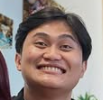
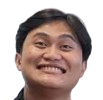
update

diff --git a/src/components/World.tsx b/src/components/World.tsx
@@ -31,6 +31,15 @@ export default function World() {
   const [openModal, setOpenModal] =
   useState<string | null>(null);
 
+  const [showEndingText, setShowEndingText] =
+  useState(false);
+
+  const endingMessage =
+    "✨ Happy Birthday Sayangku, I❤U & Sayang kamu banyak-banyak❤";
+
+  const [typedText, setTypedText] =
+    useState("");
+
   const [activeSpot, setActiveSpot] =
   useState<string | null>(null);
  
@@ -81,7 +90,12 @@ export default function World() {
         currentPos < 2100
       ) {
         setActiveSpot("letter");
-      } else {
+      } else if (
+        currentPos > 2350 &&
+        currentPos < 2600
+      ) {
+        setActiveSpot("end");
+      }else {
         setActiveSpot(null);
       }
 
@@ -107,6 +121,43 @@ export default function World() {
         handleScroll
       );
   }, []);
+
+  useEffect(() => {
+
+    if (!showEndingText)
+      return;
+
+    let index = 0;
+
+    const interval =
+      setInterval(() => {
+
+        setTypedText(
+          endingMessage.slice(
+            0,
+            index + 1
+          )
+        );
+
+        index++;
+
+        if (
+          index >=
+          endingMessage.length
+        ) {
+          clearInterval(
+            interval
+          );
+        }
+
+      }, 50);
+
+    return () =>
+      clearInterval(
+        interval
+      );
+
+  }, [showEndingText]);
 
   const launchConfetti = () => {
     confetti({
@@ -665,22 +716,124 @@ export default function World() {
               💌 Secret
             </div>
 
+            {activeSpot === "end" && (
+              <div
+                className="
+                absolute
+                bottom-[250px]
+                left-[2450px]
+                text-4xl
+                animate-bounce
+                "
+              >
+                ❤ OPEN
+              </div>
+            )}
+
             {/* ================= END ================= */}
 
             <div
               className="
               absolute
-              bottom-[170px]
-              left-[2380px]
-              text-white
-              text-xl
-              md:text-3xl
-              game-shadow
+              bottom-[70px]
+              left-[2450px]
+              cursor-pointer
+              animate-bob
               "
-            >
-              ✨ Happy Birthday Sayangku, I❤U & Sayang kamu banyak-banyak❤
-            </div>
+              onClick={() => {
 
+              if (activeSpot === "end") {
+                launchConfetti();
+                
+                setTypedText("");
+
+                setShowEndingText(false);
+
+                setTimeout(() => {
+                setShowEndingText(true);
+                }, 50);
+              }
+
+              }}
+            >
+
+              {/* TEXT */}
+
+              {showEndingText && (
+                <div
+                  className="
+                  absolute
+                  bottom-[140px]
+                  left-1/2
+                  -translate-x-1/2
+                  bg-white
+                  text-black
+                  px-4
+                  py-2
+                  rounded-xl
+                  w-[260px]
+                  text-center
+                  text-sm
+                  z-50
+                  "
+                >
+                  {typedText}
+                </div>
+              )}
+
+              {/* HEAD */}
+
+              <Image
+                src="/pixel/ariya.png"
+                alt="Ariya"
+                width={70}
+                height={70}
+                className="
+                rounded-full
+                border-4
+                border-white
+                "
+              />
+
+              {/* BODY */}
+
+              <div
+                className="
+                w-12
+                h-16
+                bg-blue-900
+                mx-auto
+                rounded-t-lg
+                "
+              />
+
+              {/* LEGS */}
+
+              <div
+                className="
+                flex
+                justify-center
+                gap-2
+                "
+              >
+                <div
+                  className="
+                  w-2
+                  h-8
+                  bg-zinc-800
+                  "
+                />
+
+                <div
+                  className="
+                  w-2
+                  h-8
+                  bg-zinc-800
+                  "
+                />
+              </div>
+
+            </div>
           </div>
 
           {openModal === "home" && (
